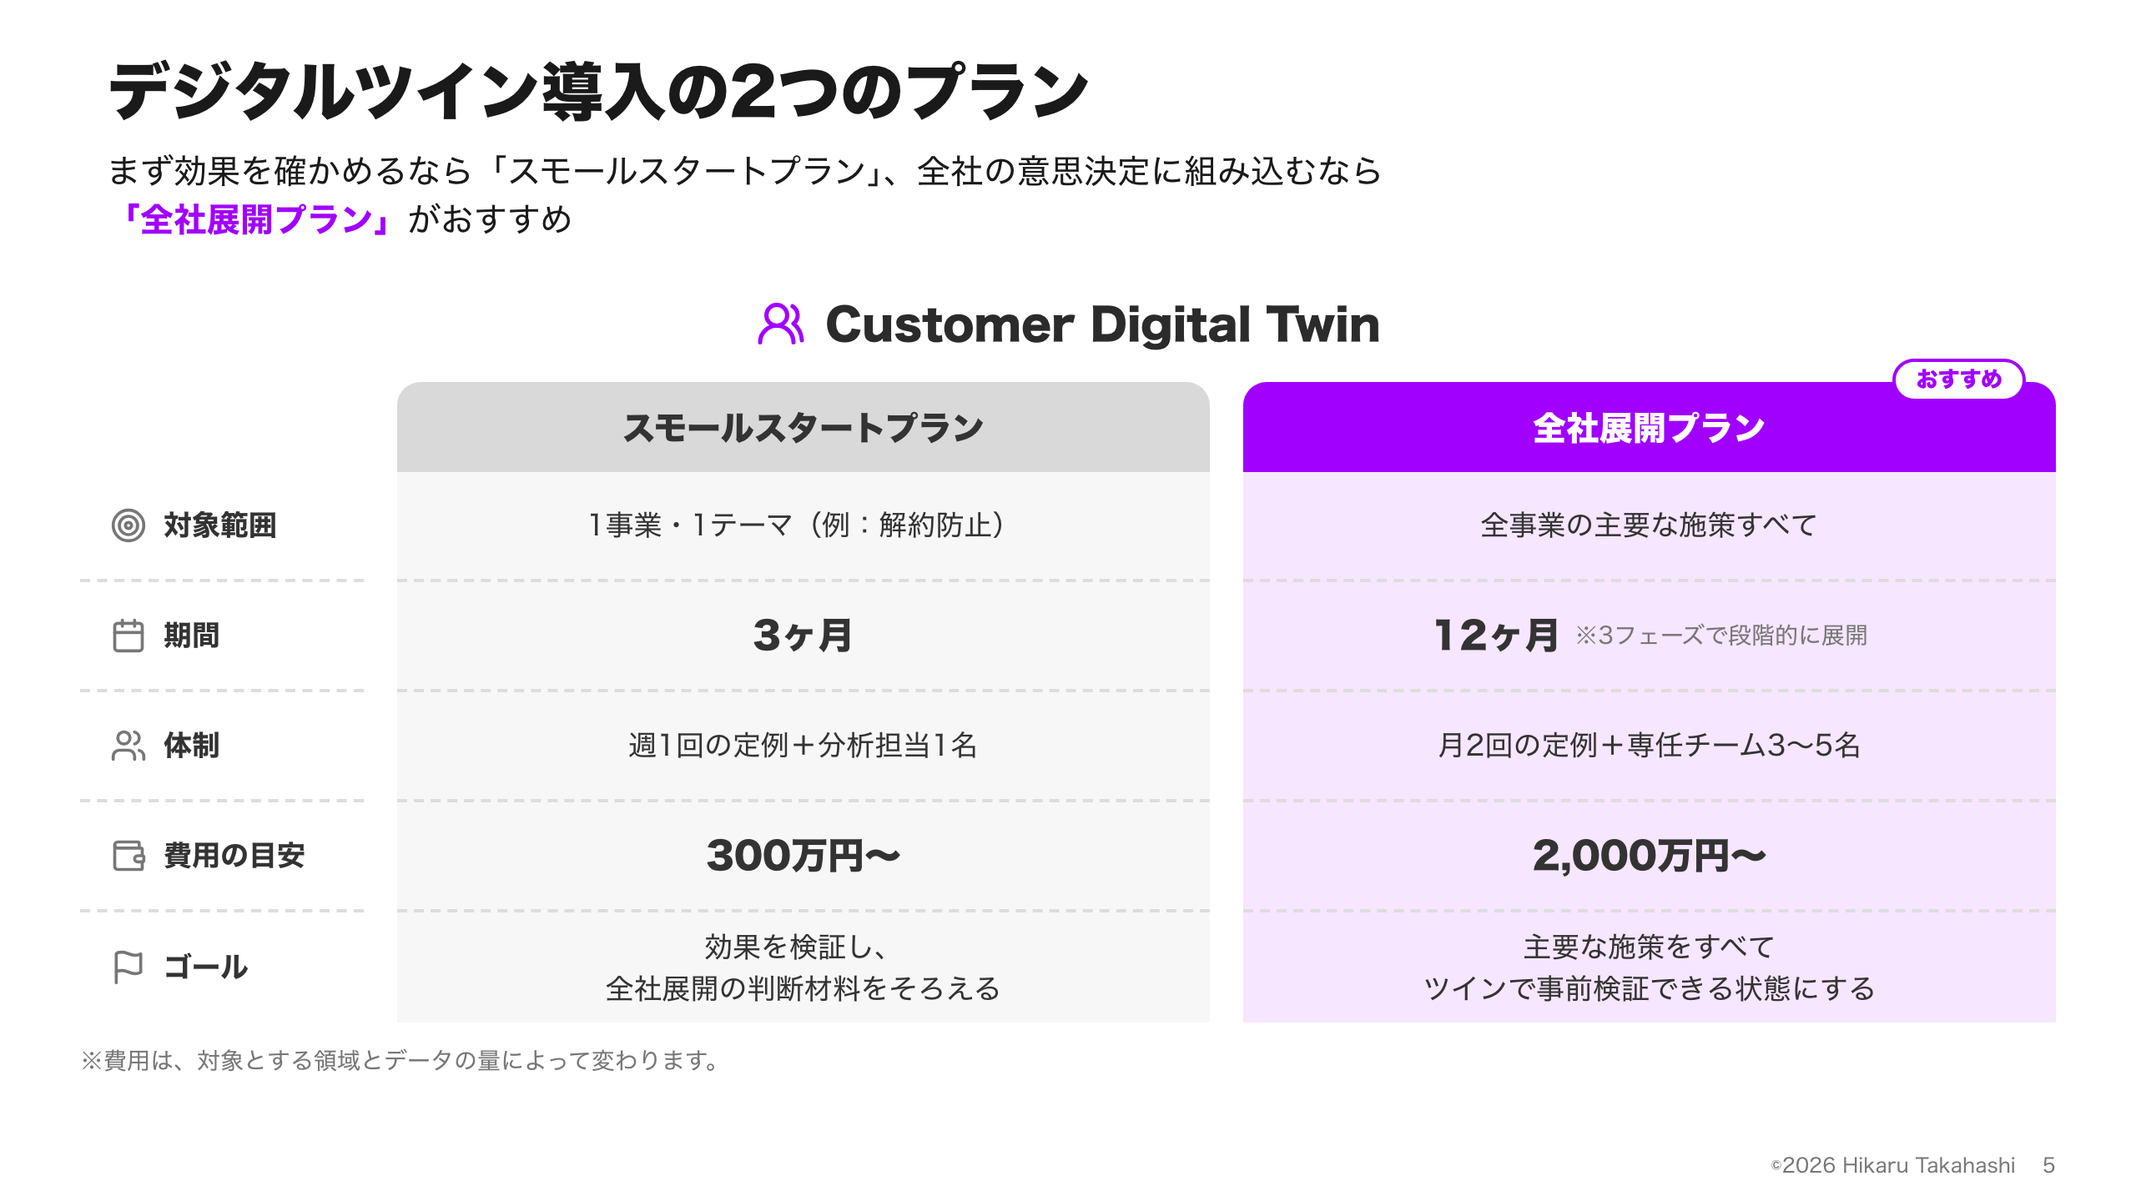
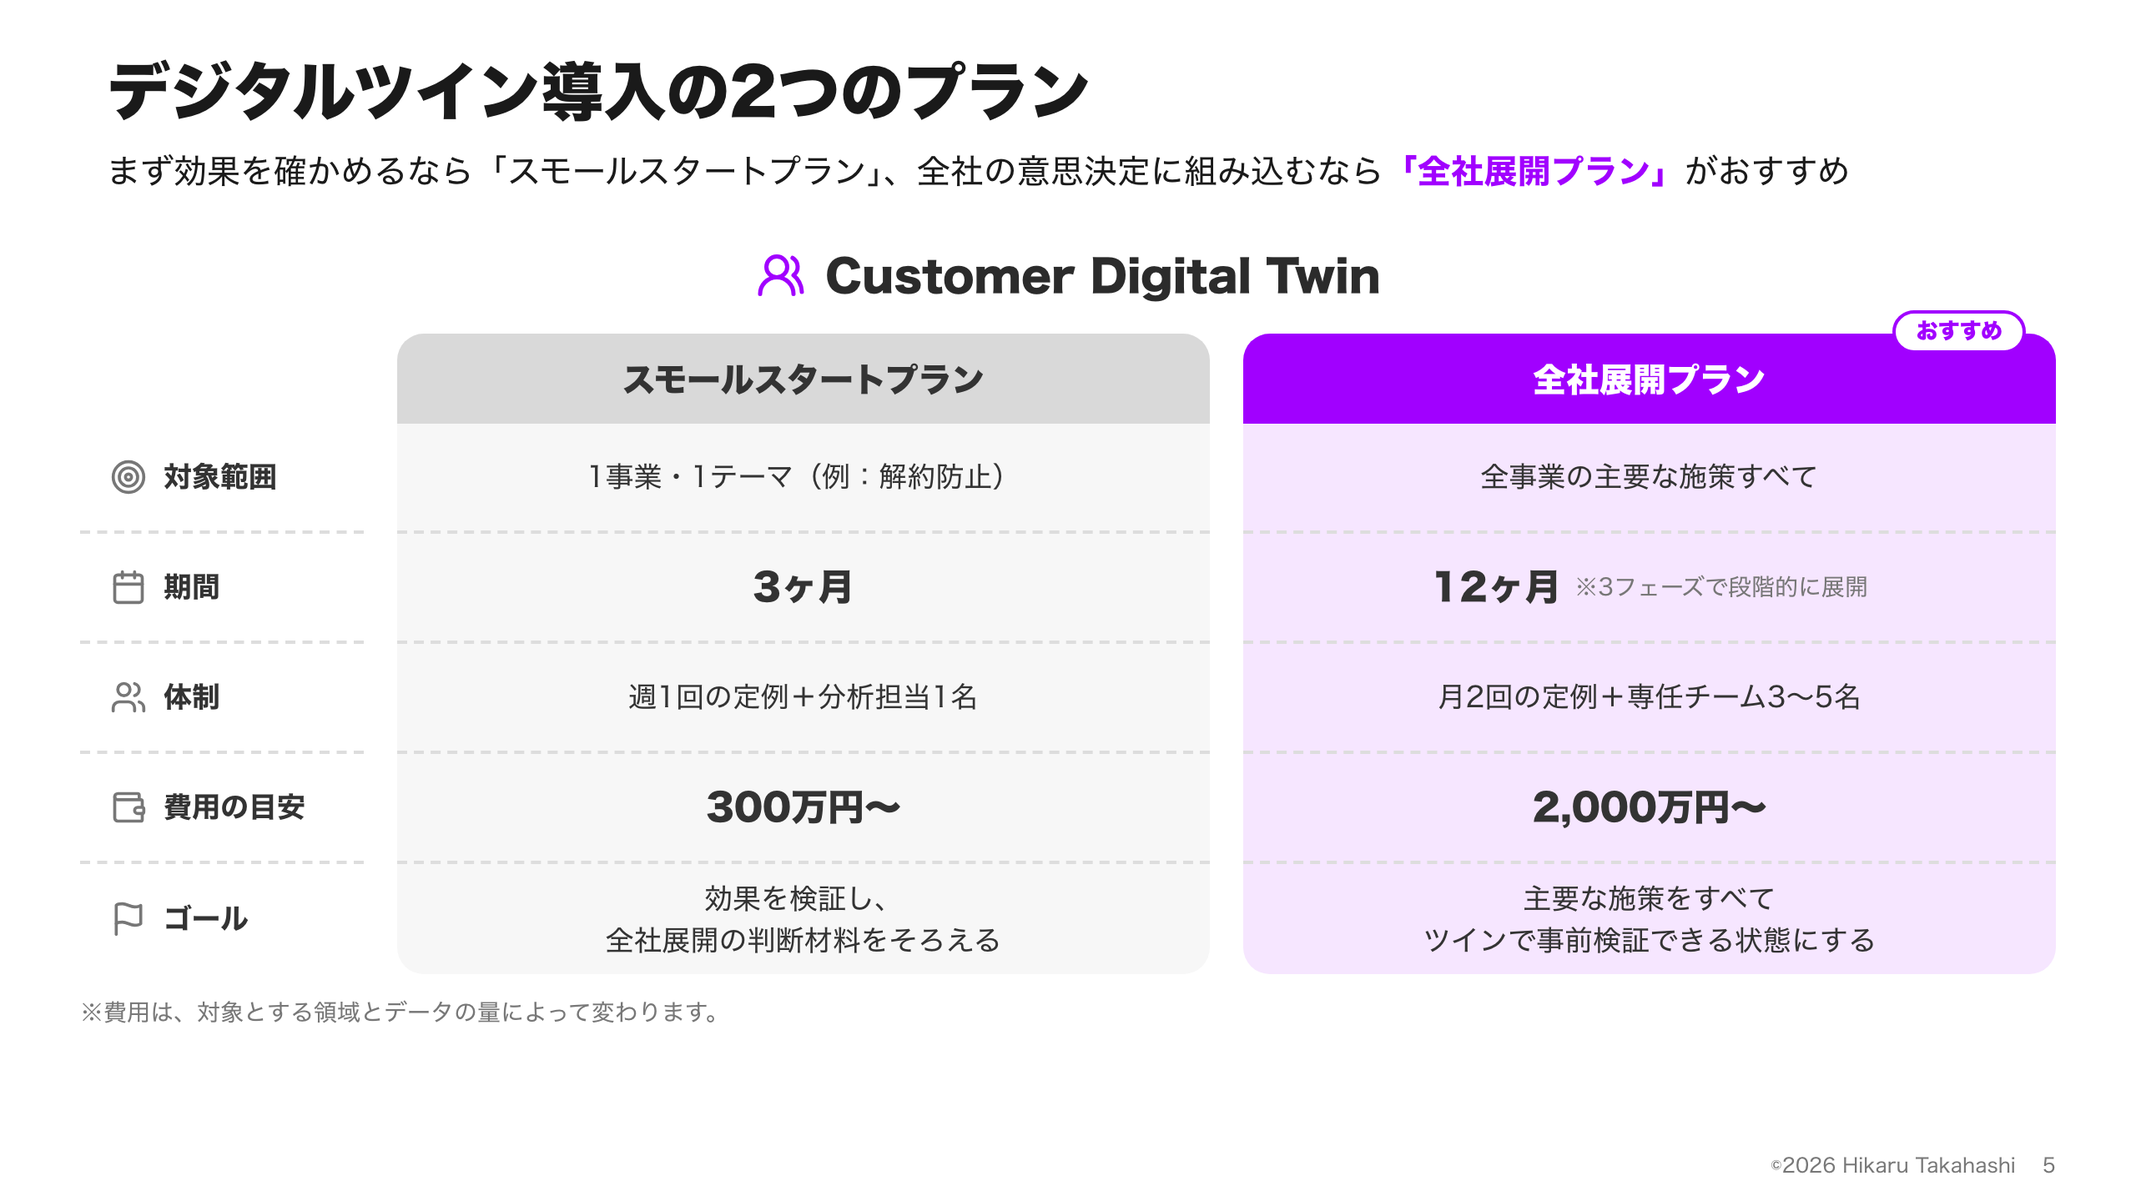
[update] Unify corner radius and let ponchi-e key messages wrap naturally

diff --git a/ponchi-e/templates/base.html b/ponchi-e/templates/base.html
@@ -17,6 +17,8 @@
     --gray: #d9d9d9;       /* 補助の円・矢印 */
     --line: #c8c8c8;       /* 点線・細線 */
     --pill: #3a3a3a;       /* ラベル（ピル） */
+    --r: 16px;             /* 角丸：面・カード・パネル */
+    --r-sm: 8px;           /* 角丸：小さな箱・ラベル・見出し帯・画像枠 */
   }
   * { margin: 0; padding: 0; box-sizing: border-box; }
   html, body { width: 1280px; height: 720px; background: #fff; overflow: hidden; }
@@ -28,9 +30,9 @@
   .slide { position: relative; width: 1280px; height: 720px; padding: 32px 48px 40px; display: flex; flex-direction: column; }
 
   /* ヘッダー（タイトル → キーメッセージ）：フォーマット固定 */
-  .header { padding-left: 16px; color: #1a1a1a; }
+  .header { padding: 0 16px; color: #1a1a1a; }
   .title { font-size: 38px; font-weight: 800; line-height: 1.25; letter-spacing: -0.01em; }
-  .key-message { margin-top: 8px; font-size: 20px; font-weight: 400; line-height: 1.45; }
+  .key-message { margin-top: 8px; font-size: 20px; font-weight: 400; line-height: 1.45; word-break: auto-phrase; }  /* <br> は入れず、右端まで使って文節の切れ目で自然に折り返す */
 
   /* コンテンツ：1枚1メタファーの図を置く領域（position:relative なので絶対配置も可） */
   .content { position: relative; flex: 1; margin-top: 28px; min-height: 0; }
@@ -38,6 +40,7 @@
   /* テキスト */
   .em { color: var(--main); font-weight: 700; }                 /* 本文中の強調語 */
   .strong { font-weight: 700; }
+  .nw { white-space: nowrap; }                                   /* 途中で改行させたくない語句 */
   .small { font-size: 13px; color: var(--sub); }
   ul.dots { list-style: none; }
   ul.dots li { position: relative; padding-left: 1em; }
@@ -48,13 +51,13 @@
   .pill.main { background: var(--main); }
   .pill.pale { background: var(--tint); color: var(--ink); }
   .pill.round { border-radius: 999px; }
-  .chip { display: inline-flex; align-items: center; gap: 6px; background: var(--gray-bg); border-radius: 6px; padding: 3px 10px; font-size: 14px; font-weight: 700; margin: 0 6px 6px 0; }  /* 補足のラベル（アイコン可） */
+  .chip { display: inline-flex; align-items: center; gap: 6px; background: var(--gray-bg); border-radius: var(--r-sm); padding: 3px 10px; font-size: 14px; font-weight: 700; margin: 0 6px 6px 0; }  /* 補足のラベル（アイコン可） */
   .chip .icon { width: 18px; height: 18px; background: #666; }
 
-  /* 面・枠 */
-  .soft { background: var(--tint); border-radius: 20px; }        /* 本題エリア */
-  .soft-gray { background: var(--gray-bg); }                     /* 補助パネル */
-  .outline { background: #fff; border: 2px solid var(--main); text-align: center; }
+  /* 面・枠：角丸は --r（面）と --r-sm（小さな箱）の2種類に統一する */
+  .soft { background: var(--tint); border-radius: var(--r); }        /* 本題エリア */
+  .soft-gray { background: var(--gray-bg); border-radius: var(--r); }                     /* 補助パネル */
+  .outline { background: #fff; border: 2px solid var(--main); border-radius: var(--r-sm); text-align: center; }
   .ring { border: 2px solid #ececec; border-radius: 50%; display: flex; flex-direction: column; align-items: center; justify-content: center; text-align: center; }
   .dashed-h { border-top: 2px dashed var(--line); }
   .dashed-v { border-left: 2px dashed #e0e0e0; }

diff --git a/ponchi-e/examples/compare.html b/ponchi-e/examples/compare.html
@@ -1,11 +1,11 @@
 <!-- パターン: compare（2〜3案の比較表）
-     列＝比較する案、行＝比較の観点。おすすめの案だけメインカラーの見出し＋淡色の面、
+     列＝比較する案、行＝比較の観点。おすすめの案だけメインカラーの見出し＋淡色の面、列ごとに外側の角だけ丸める。
      もう一方はグレーの見出し＋ごく淡いグレーの面にする。行の区切りは点線、補足は※で表の下に置く -->
 <style>
   .cmp-name { display: flex; align-items: center; justify-content: center; gap: 12px; font-size: 26px; font-weight: 800; color: #2b2b2b; margin-bottom: 14px; }
   .cmp { display: grid; grid-template-columns: 170px 1fr 1fr; column-gap: 20px; }
   .cmp > div { display: flex; align-items: center; justify-content: center; text-align: center; padding: 0 20px; }
-  .cmp .h { height: 54px; border-radius: 14px 14px 0 0; font-size: 20px; font-weight: 800; position: relative; }
+  .cmp .h { height: 54px; border-radius: var(--r) var(--r) 0 0; font-size: 20px; font-weight: 800; position: relative; }
   .cmp .h.a { background: var(--gray); }
   .cmp .h.b { background: var(--main); color: #fff; }
   .cmp .h .rec { position: absolute; top: -14px; right: 18px; background: #fff; color: var(--main); border: 2px solid var(--main); border-radius: 999px; font-size: 13px; font-weight: 800; padding: 0 12px; line-height: 22px; }
@@ -15,6 +15,7 @@
   .cmp .ca { background: #f7f7f7; }
   .cmp .cb { background: var(--tint); }
   .cmp .last { border-bottom: none; }
+  .cmp .ca.last, .cmp .cb.last { border-radius: 0 0 var(--r) var(--r); }
   .cmp .big { font-size: 22px; font-weight: 800; }
   .cmp .note { font-size: 14px; color: var(--sub); margin-left: 8px; }
   .cmp-foot { margin-top: 12px; font-size: 14px; color: var(--sub); }
@@ -22,7 +23,7 @@
 <div class="slide">
   <div class="header">
     <div class="title">デジタルツイン導入の2つのプラン</div>
-    <div class="key-message">まず効果を確かめるなら「スモールスタートプラン」、全社の意思決定に組み込むなら<br><span class="em">「全社展開プラン」</span>がおすすめ</div>
+    <div class="key-message">まず効果を確かめるなら「スモールスタートプラン」、全社の意思決定に組み込むなら<span class="em">「全社展開プラン」</span>がおすすめ</div>
   </div>
   <div class="content">
     <div class="cmp-name"><i class="icon main" style="--i:url(https://unpkg.com/lucide-static@0.460.0/icons/users-round.svg)"></i>Customer Digital Twin</div>

diff --git a/ponchi-e/examples/levels.html b/ponchi-e/examples/levels.html
@@ -3,16 +3,18 @@
      それ以外はグレーの面＋淡いブロック。帯の境目は点線、範囲は縦の両矢印で示す -->
 <style>
   .zone { position: absolute; left: 0; right: 0; }
+  .zone.main { border-radius: var(--r) var(--r) 0 0; }
+  .zone.base { border-radius: 0 0 var(--r) var(--r); }
   .zone.main { background: rgba(243,232,255,.75); border-top: 2px dashed var(--main); }
   .zone.base { background: #f7f7f7; border-top: 2px dashed #bbb; }
   .pyramid { position: absolute; left: -20px; top: 0; }
-  .lv { position: absolute; left: 30px; width: 220px; height: 76px; background: rgba(240,240,240,.9); border-radius: 10px; text-align: center; padding-top: 6px; }
+  .lv { position: absolute; left: 30px; width: 220px; height: 76px; background: rgba(240,240,240,.9); border-radius: var(--r-sm); text-align: center; padding-top: 6px; }
   .lv-name { font-size: 24px; font-weight: 800; line-height: 1.3; }
   .lv-stars { font-size: 14px; letter-spacing: 2px; }
   .lv-desc { position: absolute; left: 282px; width: 440px; display: flex; align-items: center; font-size: 18px; font-weight: 700; line-height: 1.55; }
   .sep { position: absolute; left: 10px; width: 720px; border-top: 2px dashed #ddd; }
   .who { position: absolute; left: 820px; right: 0; display: flex; align-items: center; gap: 12px; font-size: 18px; font-weight: 700; }
-  .plan { position: absolute; left: 820px; right: 0; height: 76px; display: flex; align-items: center; justify-content: center; font-size: 24px; font-weight: 800; text-align: center; line-height: 1.35; }
+  .plan { position: absolute; left: 820px; right: 0; height: 76px; border-radius: var(--r-sm); display: flex; align-items: center; justify-content: center; font-size: 24px; font-weight: 800; text-align: center; line-height: 1.35; }
   .vline { position: absolute; width: 3px; }
   .vline::before, .vline::after { content: ""; position: absolute; left: -6px; border-left: 7.5px solid transparent; border-right: 7.5px solid transparent; }
   .vline::before { top: -2px; border-bottom: 11px solid currentColor; }

diff --git a/ponchi-e/examples/phases.html b/ponchi-e/examples/phases.html
@@ -5,7 +5,7 @@
 <style>
   .col-text { position: absolute; width: 192px; text-align: center; font-size: 18px; line-height: 1.75; }
   .dur { position: absolute; width: 192px; text-align: center; font-size: 15px; }
-  .deliv { position: absolute; top: 456px; height: 54px; background: #fff; border: 1.5px solid #cfcfcf; border-radius: 8px; display: flex; flex-direction: column; align-items: center; justify-content: center; font-size: 15px; font-weight: 700; line-height: 1.3; }
+  .deliv { position: absolute; top: 456px; height: 54px; background: #fff; border: 1.5px solid #cfcfcf; border-radius: var(--r-sm); display: flex; flex-direction: column; align-items: center; justify-content: center; font-size: 15px; font-weight: 700; line-height: 1.3; }
   .deliv-label { font-size: 11px; font-weight: 700; color: var(--sub); }
 </style>
 <div class="slide">
@@ -14,7 +14,7 @@
     <div class="key-message">事前準備で課題と対象領域を見極めたうえで、12ヶ月かけて段階的にツインを構築・展開する</div>
   </div>
   <div class="content">
-    <div class="soft" style="position:absolute;left:392px;top:16px;width:596px;bottom:0;border-radius:0"></div>
+    <div class="soft" style="position:absolute;left:392px;top:16px;width:596px;bottom:0"></div>
     <div class="span" style="position:absolute;left:0;top:0;width:390px;color:var(--tint-line)"><span class="pill pale round" style="color:var(--ink)">事前準備</span></div>
     <div class="span" style="position:absolute;left:396px;top:0;width:588px;color:var(--main)"><span class="pill main round">デジタルツイン構築プラン</span></div>
     <div class="span" style="position:absolute;left:990px;top:0;width:192px;color:#ccc"><span class="pill round" style="background:#ccc;color:var(--ink)">継続支援</span></div>

diff --git a/ponchi-e/examples/cases.html b/ponchi-e/examples/cases.html
@@ -3,11 +3,11 @@
      画像はユーザーから受け取った写真・スクリーンショット・書影などを白い枠に入れる（ない場合はイラストで代用）。
      最下段に成果などの共通の観点を揃えて置く -->
 <style>
-  .case { position: absolute; top: 12px; width: 376px; height: 486px; background: var(--gray-bg); }
+  .case { position: absolute; top: 12px; width: 376px; height: 486px; background: var(--gray-bg); border-radius: var(--r); overflow: hidden; }
   .case-h { height: 58px; background: var(--pill); color: #fff; display: flex; align-items: center; justify-content: center; gap: 12px; font-size: 22px; font-weight: 800; }
   .case-h small { font-size: 14px; font-weight: 700; opacity: .75; }
   .case p { padding: 18px 24px 0; font-size: 16px; line-height: 1.75; height: 104px; }
-  .case-img { margin: 10px 24px 0; height: 210px; background: #fff; border: 1px solid #e2e2e2; display: flex; align-items: center; justify-content: center; }
+  .case-img { margin: 10px 24px 0; height: 210px; background: #fff; border: 1px solid #e2e2e2; border-radius: var(--r-sm); display: flex; align-items: center; justify-content: center; }
   .case-img img { height: 170px; }
   .case-kpi { margin: 18px 24px 0; padding-top: 14px; border-top: 2px dashed #d0d0d0; display: flex; align-items: baseline; justify-content: center; gap: 14px; }
   .case-kpi .pill { font-size: 13px; padding: 1px 14px; transform: translateY(-4px); }

diff --git a/ponchi-e/examples/reasons.html b/ponchi-e/examples/reasons.html
@@ -3,8 +3,8 @@
      結論の一言でキーメッセージにつなげる。3つは同じ重みなので、メインカラーは結論のピルと強調語だけに使う -->
 <style>
   .rs-cap { text-align: center; font-size: 18px; color: #555; margin-bottom: 16px; }
-  .rs { position: absolute; top: 46px; width: 376px; height: 446px; background: #f6f6f6; padding: 16px 16px 0; }
-  .rs-h { height: 84px; background: var(--pill); color: #fff; display: flex; align-items: center; justify-content: center; text-align: center; font-size: 20px; font-weight: 800; line-height: 1.45; }
+  .rs { position: absolute; top: 46px; width: 376px; height: 446px; background: #f6f6f6; border-radius: var(--r); padding: 16px 16px 0; }
+  .rs-h { height: 84px; background: var(--pill); border-radius: var(--r-sm); color: #fff; display: flex; align-items: center; justify-content: center; text-align: center; font-size: 20px; font-weight: 800; line-height: 1.45; }
   .rs p { padding: 20px 10px 0; font-size: 17px; line-height: 1.8; height: 146px; text-align: center; }
   .rs .icon { display: block; margin: 8px auto 0; width: 52px; height: 52px; background: #444; }
   .rs-out { margin: 20px 6px 0; padding-top: 16px; border-top: 2px dashed #d0d0d0; text-align: center; }

diff --git a/ponchi-e/SKILL.md b/ponchi-e/SKILL.md
@@ -10,7 +10,7 @@ HTML（1280×720）でスライドを組み、`scripts/render.py` で PNG（2560
 
 ## 構成（上から順に）
 1. **スライドタイトル**：そのページのテーマを名詞句で書く。38px・極太・左寄せ。タイトルの上に章ラベルなどは置かない。
-2. **キーメッセージ**：そのページの結論を文で書く。20px・標準の太さ（太字にしない）。1〜2行。
+2. **キーメッセージ**：そのページの結論を文で書く。20px・標準の太さ（太字にしない）。1〜2行。`<br>` で改行せず、ヘッダーの右端（左右の余白は `base.html` の設定どおり）まで使って自然に折り返す。折り返しは文節の切れ目で自動的に行われるが、語の途中で分かれた場合は、その語句を `<span class="nw">` で囲んで分かれないようにする。
 3. **コンテンツ**：そのページの主役となる図を1つ置く。図の形は内容から決める（お手本の形に限らない）。
 4. **フッター**：右下にコピーライトとページ番号。数値を載せた場合は左下に出所。
 
@@ -42,8 +42,12 @@ HTML（1280×720）でスライドを組み、`scripts/render.py` で PNG（2560
   - 主役ではない要素は、チャコール（`#333`）、グレー（`#d9d9d9` / `#f0f0f0`）、メインカラーの淡色（`var(--tint)` など。メインカラーから自動で作られる）で描く
   - 本題の範囲は淡色の面（`.soft`）で囲み、前後の工程や比較対象はグレーや淡色にして強弱をつける
   - メインカラー以外の色相は使わない
-- **文字**：主要な説明は16〜18px、図の中のラベルは16〜24px、補足情報（ステップの説明・チップ・箇条書き・成果物）は14〜15px。14px未満は使わない（小見出しの添え字のみ11〜13px可）。1つの説明は2〜4行に収め、意味の切れ目で `<br>` を入れて改行位置を整える。強調語（`.em`）が行をまたいで分かれないようにする。
+- **文字**：主要な説明は16〜18px、図の中のラベルは16〜24px、補足情報（ステップの説明・チップ・箇条書き・成果物）は14〜15px。14px未満は使わない（小見出しの添え字のみ11〜13px可）。図の中の1つの説明は2〜4行に収め、意味の切れ目で `<br>` を入れて改行位置を整える（キーメッセージには `<br>` を入れない）。強調語（`.em`）が行をまたいで分かれないようにする。
 - **形**：角丸の面（`.soft`）、細い線の大きな円（`.ring`）、点線の区切り（`.dashed-h` / `.dashed-v`）、ピル型のラベル（`.pill`）、矢羽根（`.chev`）を使う。
+- **角丸の統一**：四角いオブジェクトはすべて角丸にし、半径は2種類にそろえる。
+  - 面・カード・パネル（`.soft`、`.soft-gray`、カードの外枠など）：`var(--r)`（16px）
+  - 小さな箱・見出し帯・画像の枠・タグ・枠線の箱（`.outline`）：`var(--r-sm)`（8px）
+  - 表の列や上下に連結した帯は、外側の角だけを丸める。円・ピル・矢羽根はそのままでよい
 - **ラベル**：濃いグレーのピル（`.pill`）を基本にし、主役だけメインカラーのピル（`.pill.main`）にする。
 
 ## イラストとアイコン
@@ -63,6 +67,7 @@ HTML（1280×720）でスライドを組み、`scripts/render.py` で PNG（2560
 - メインカラーの多用（主役以外までメインカラーにする）
 - グラデーション、ドロップシャドウ、光彩、ぼかし、ガラス風の表現
 - 絵文字（★などの記号は可）
+- 角丸のオブジェクトと直角のオブジェクトの混在、角丸の半径のばらつき
 - 要素ごとに色付きのアイコンを並べること
 - はみ出し、文字の切れ、要素の重なり、1〜2文字だけが次の行に送られる不自然な改行
 
@@ -76,6 +81,8 @@ HTML（1280×720）でスライドを組み、`scripts/render.py` で PNG（2560
    ```
 5. Read ツールで PNG を開いて確認し、問題があれば HTML を直して書き出し直す。確認項目：
    - はみ出し、文字の切れ、重なり、不自然な改行がないか
+   - キーメッセージが途中で改行されず、右端まで使って折り返されているか
+   - 四角いオブジェクトがすべて角丸で、半径がそろっているか
    - 主役の図がひと目でわかり、メインカラーが主役だけに使われているか
    - 余白と情報量のバランス（図が上や左に偏っていないか、空いた領域が目立っていないか）
    - キーメッセージと図の内容が食い違っていないか
